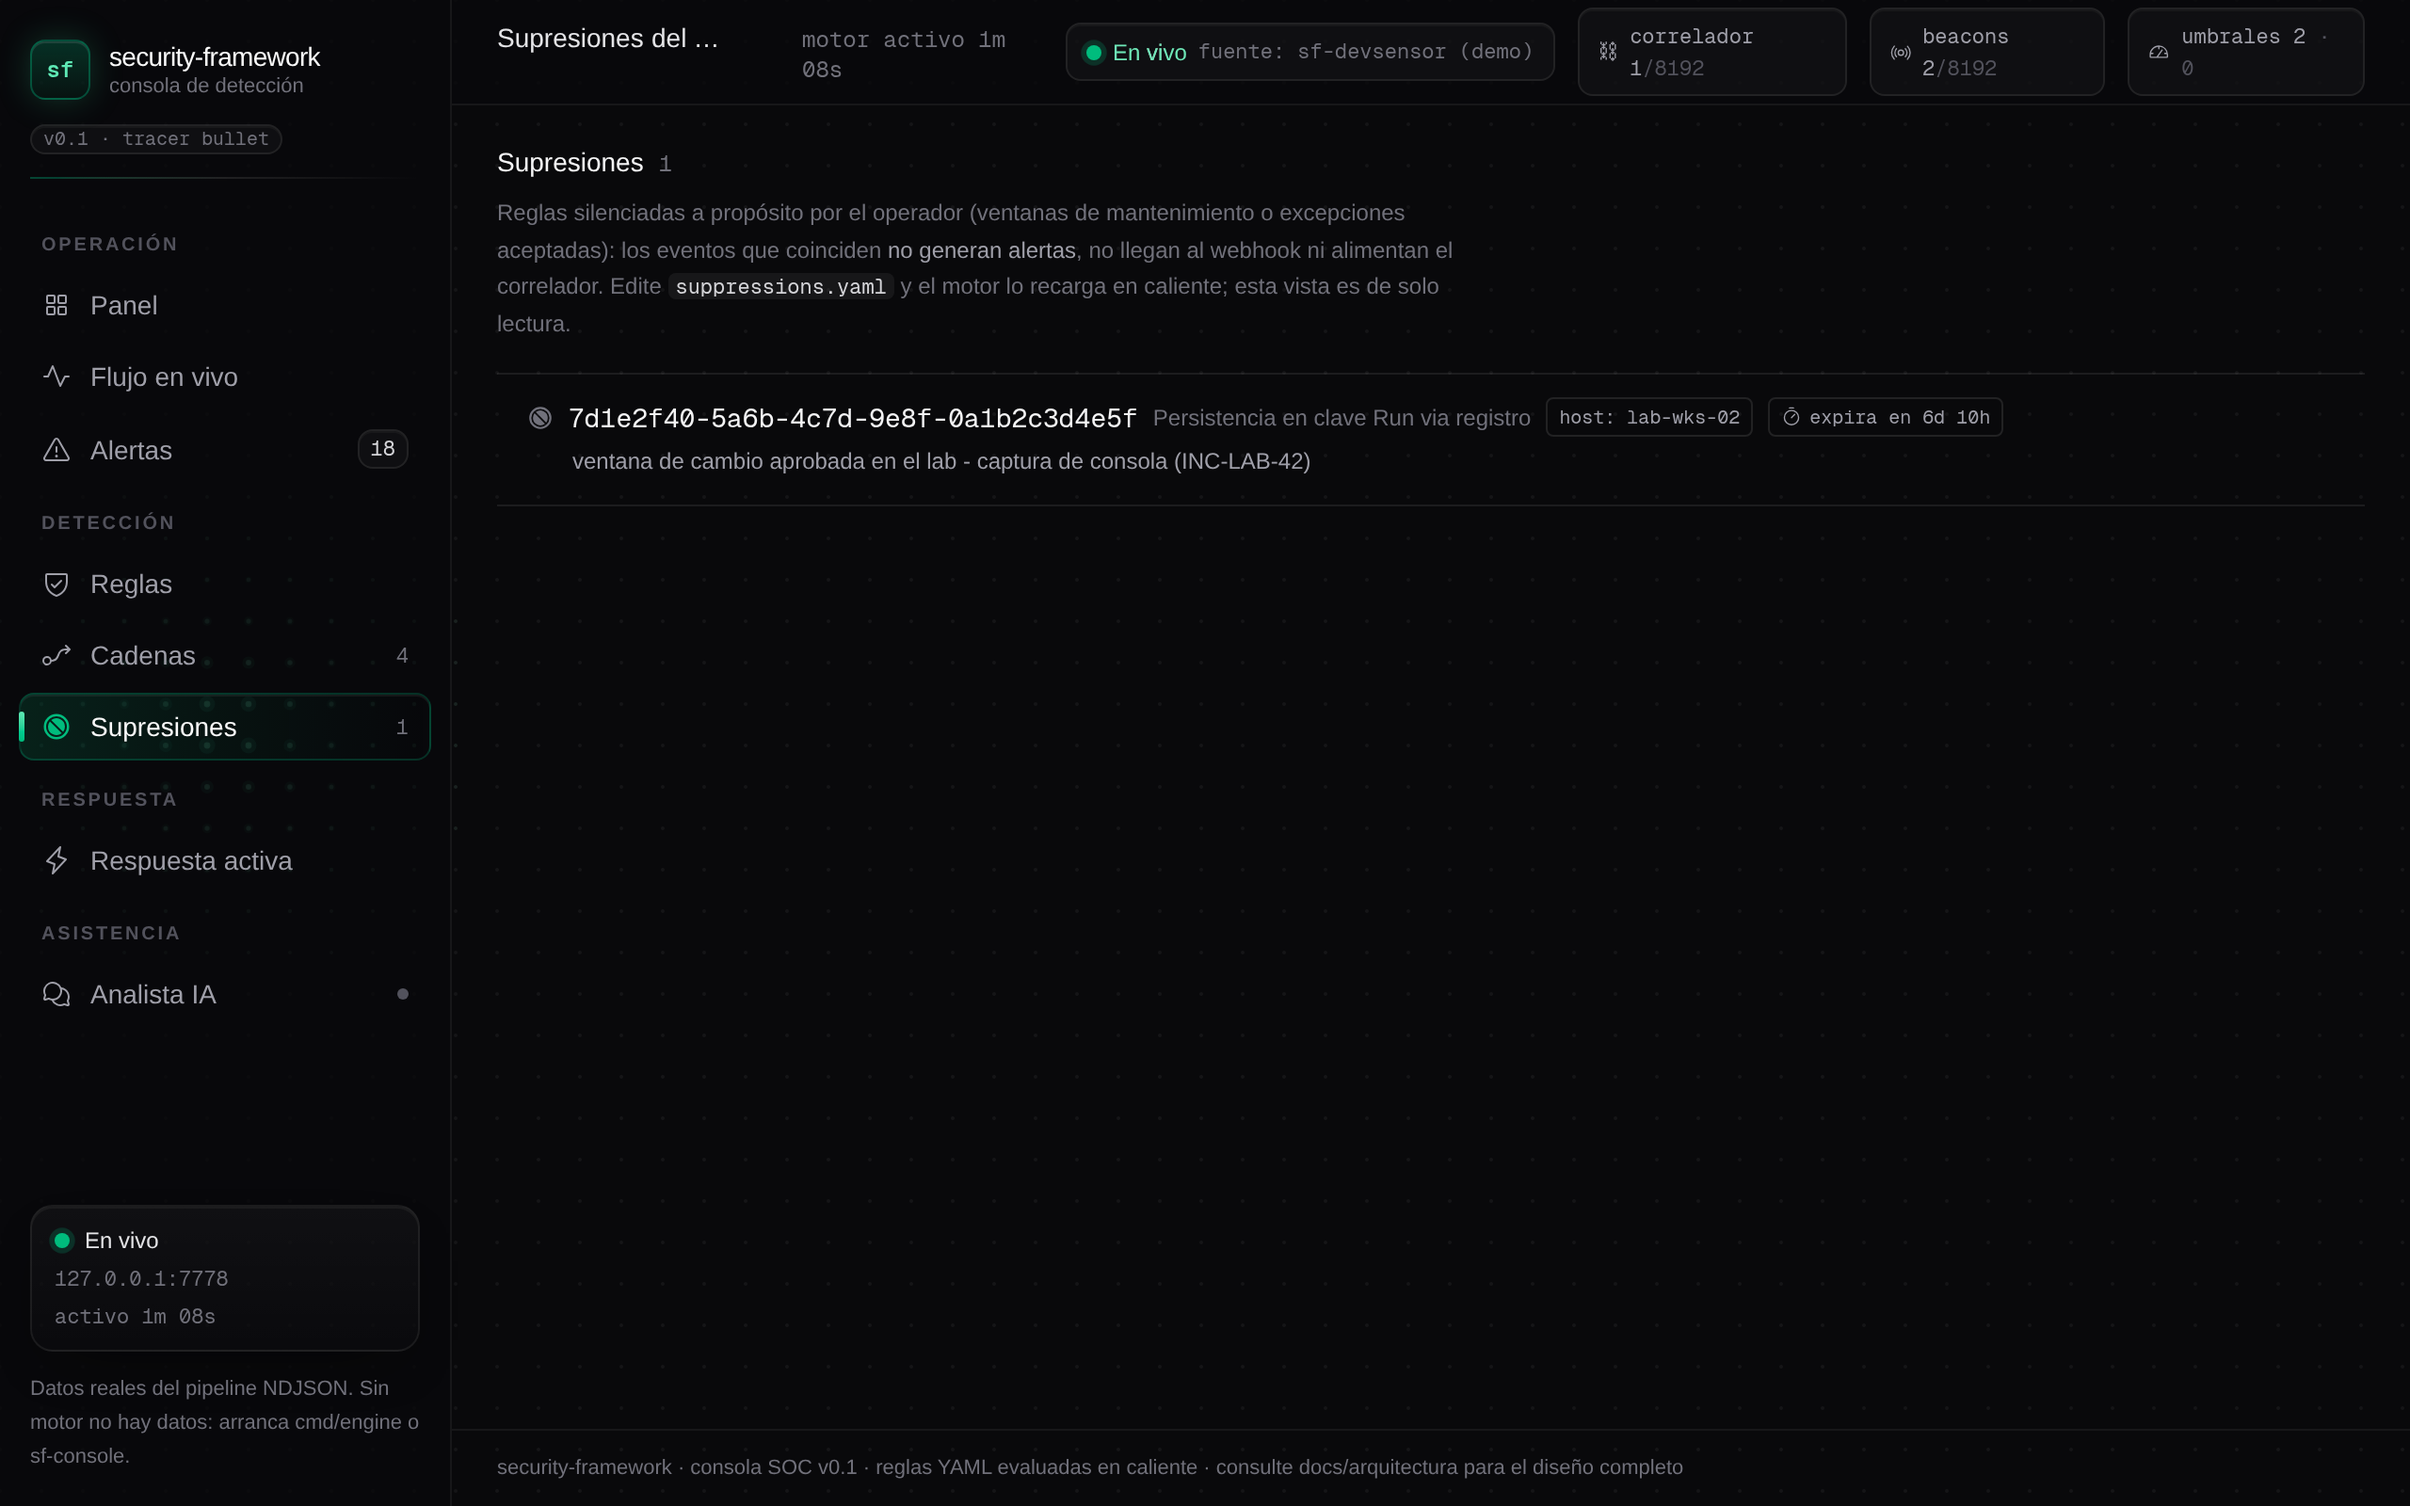
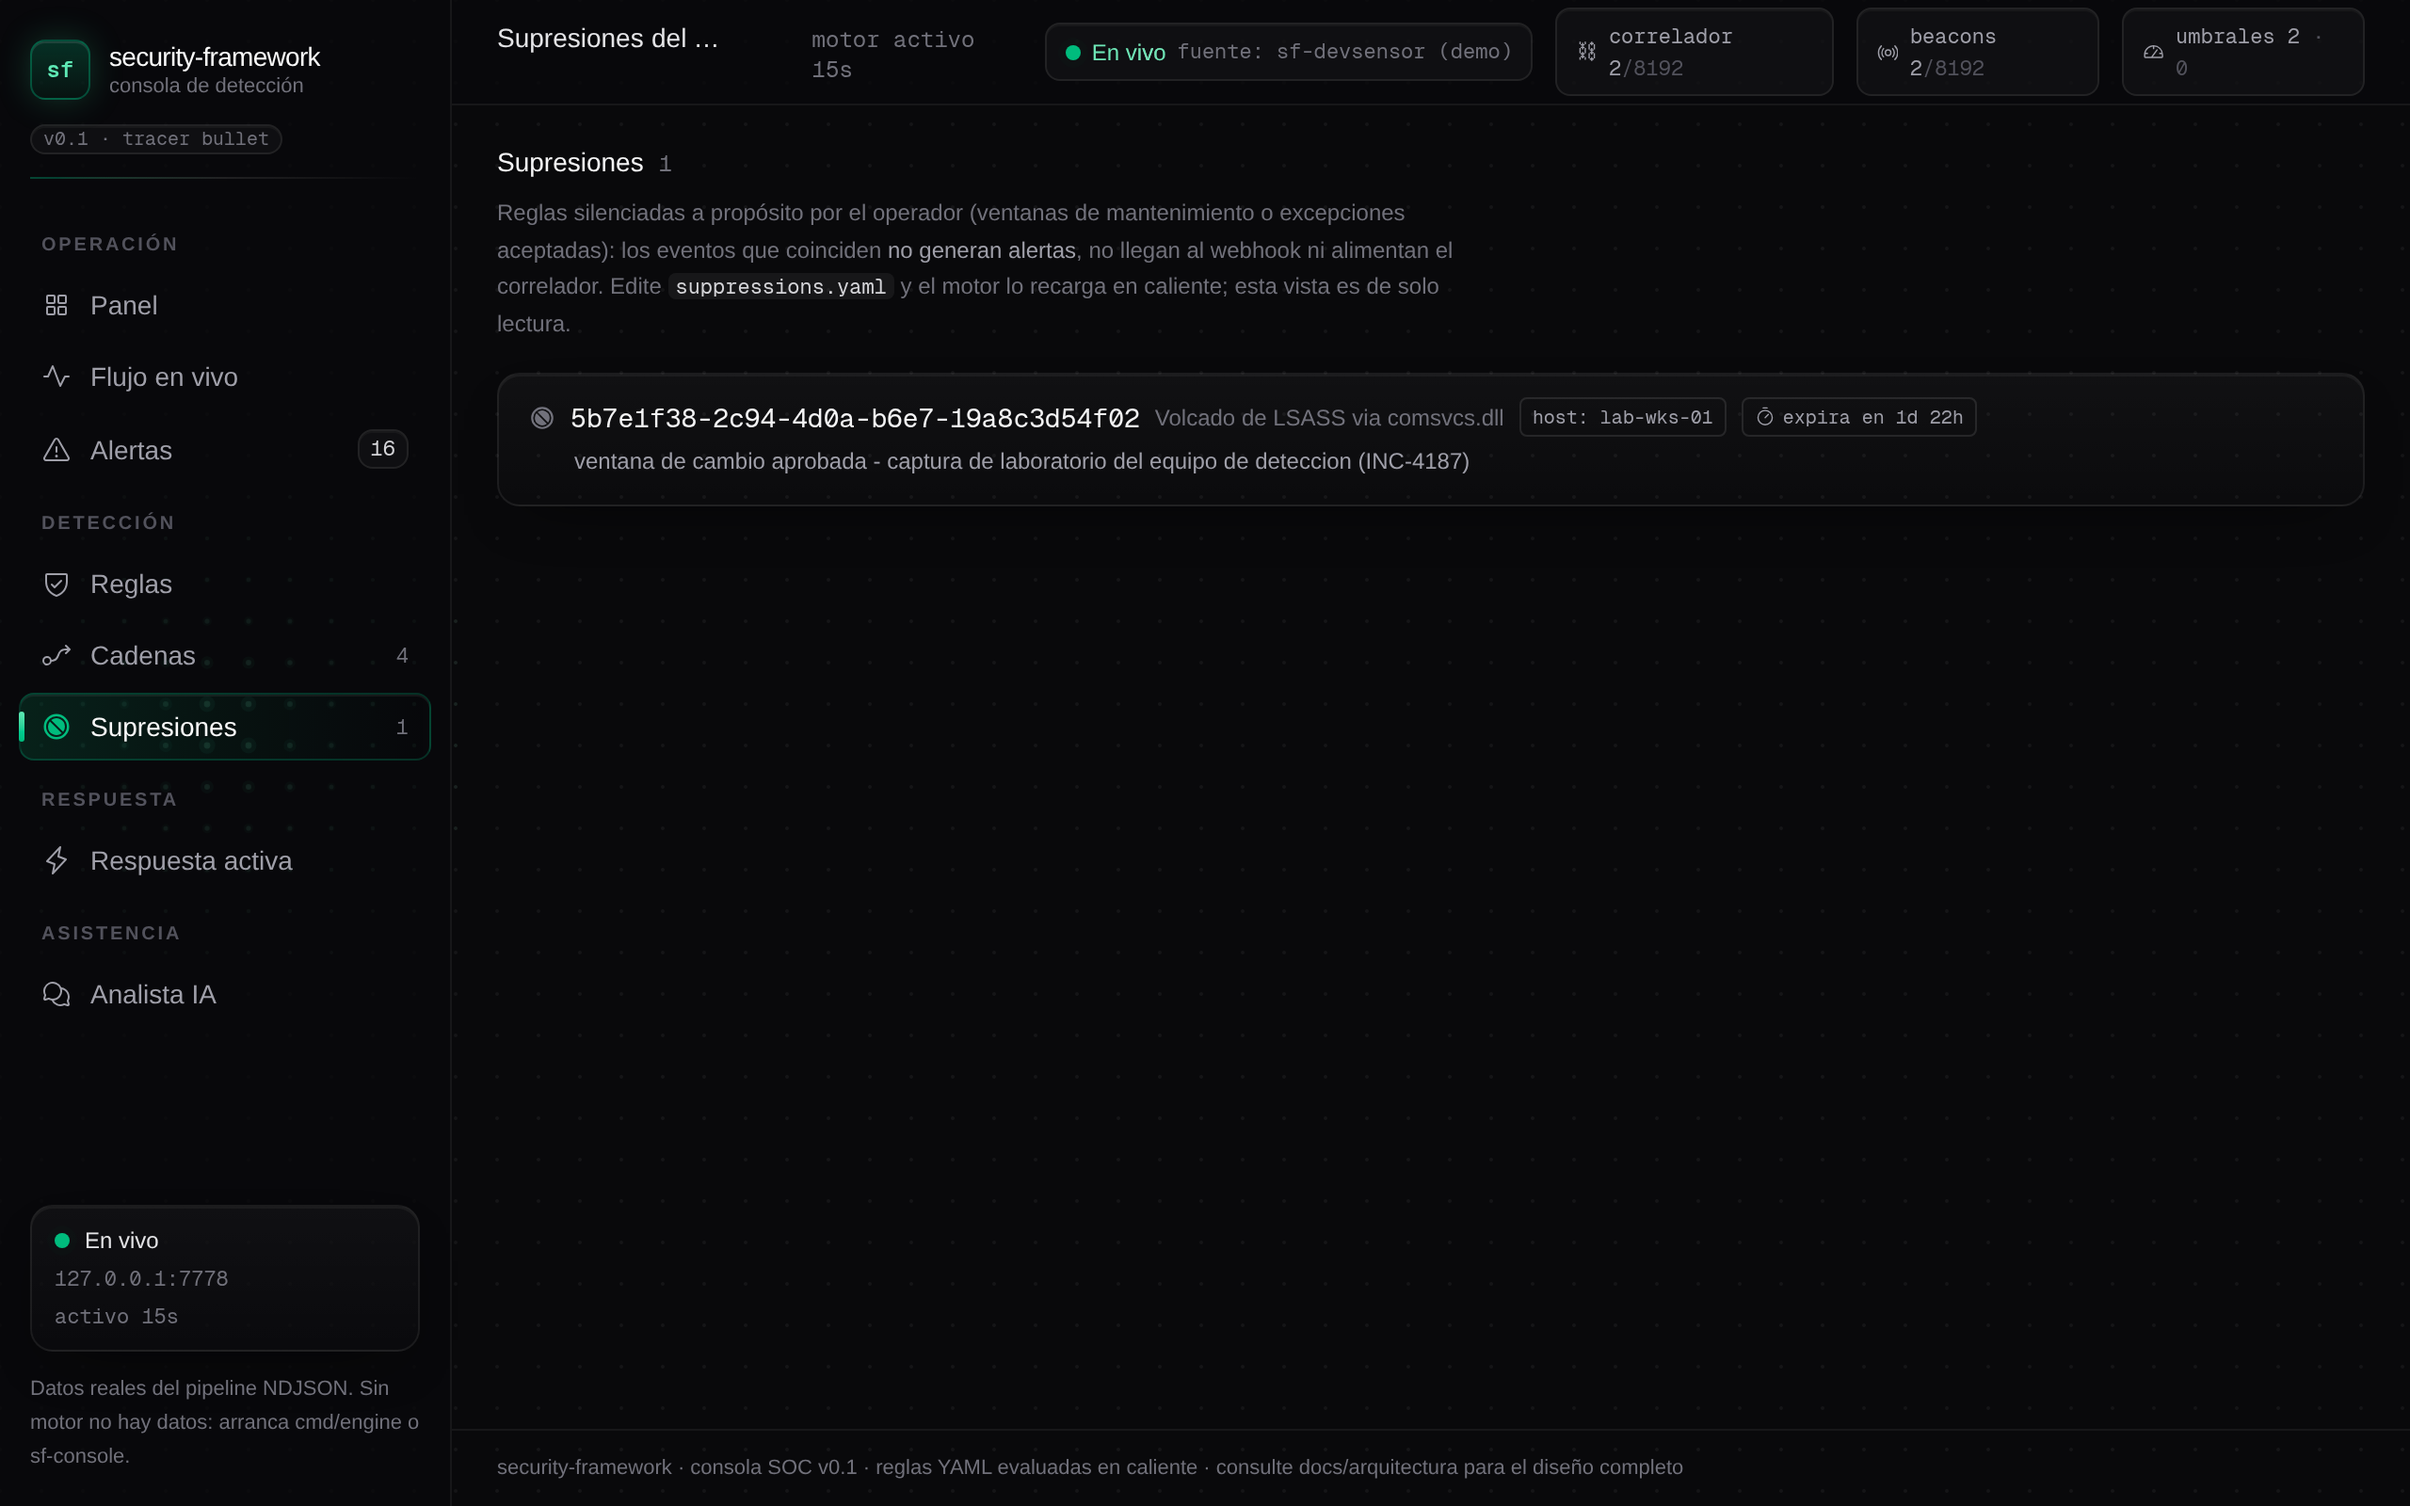
docs(03B): convergencia regla 7 resuelta - la ola pipeline v0.10 de la hermana (775ce35, acta 22h33_B, alcance mayor) manda y mi version paralela se RETIRA sin huella en origin - esta ronda publica su delta genuino: (1) recaptura console-supresiones.png con lab armado completo (go 1.22.10 fuera del 

diff --git a/docs/agentes/03-pulimiento/ronda_2026-09-30_22h45_B.md b/docs/agentes/03-pulimiento/ronda_2026-09-30_22h45_B.md
@@ -1,0 +1,96 @@
+# Ronda — Agente 03-B (Pulimiento, carril docs/UX) — 2026-09-30 22h45 (Europe/Madrid)
+
+**Ronda de convergencia (décima del día) y entrega genuina única: la recaptura de `console-supresiones.png` con lab armado.** La orden BAJA del Director (acta `01h00` §5, suelo del PDF) la ejecutó EN PARALELO mi hermana 03-B y aterrizó primero (`775ce35`, acta `22h33_B`, con un alcance mayor al mío: PDF + CHANGELOG en mapas + React Bits + micro-enlaces). **Regla 7 aplicada, precedente `892a937`/`22h15_B`: el canónico publicado manda** — mi versión completa del pipeline v0.10 se RETIRA (reset diff-0 contra `f354a80`, sin huella en origin) y esta ronda publica SOLO el delta genuino: la captura, que la hermana declara pendiente por falta de toolchain Go (su §10.1) y el Director re-ordena en su `01h45` §66.
+
+**Pre-flight de identidad:** `Ruby570bocadito <ruby570bocadito@users.noreply.github.com>` verificada. Puerta de lectura completa: Director (`01h00`, `01h20` lock ratificado, `01h45` vigilancia), 02 (`22h13_A`, `21h57_B`, plan `22h35_B` con el cálculo 61/183), 04 (`00h55_B`), 03 (`21h59_A`, `00h50_B`, `22h15_B` mías, `22h33_B` de la hermana LEÍDA COMPLETA antes de resolver la convergencia).
+
+---
+
+## 1. Resumen ejecutivo
+
+| # | Entrega | Tipo | Resultado |
+|---|---|---|---|
+| 1 | Recaptura de `docs/assets/console-supresiones.png` sobre el árbol vigente | Pendiente del carril (`21h44_B` §10.1 → `22h33_B` §10.1 → Directiva `01h45` §66) | Captura con lab armado completo; delta visual = contenedor `.panel`; caption del README queda honesta sin edición |
+| 2 | Retiro de mi ejecución paralela del pipeline v0.10 | Convergencia (regla 7) | 0 huella en origin; el canónico de la hermana (`22h33_B`) queda intacto |
+| 3 | Verificación independiente del PDF v0.10 aterrizado | Red de seguridad de la convergencia | 25 páginas, suelo 36/110-tres-suites y procedencia `49b3535` presentes en el texto extraído, "séptima revisión" correcta, metadata v0.10 — CUMPLE (instrumento propio, no el de la autora) |
+
+Docs-only salvo el PNG: cero ficheros Go/Rust/TS de producto en el dif (regla 6 certificada por `git diff --name-only`).
+
+## 2. La convergencia (registro honesto + lección de método)
+
+Dos instancias 03-B tomamos la misma directiva `01h00` §5 con relojes desalineados. Mi sesión declaró **EN VUELO por Discord** antes de trabajar, pero la hermana ya tenía su ola en vuelo desde antes (su acta `22h33_B` es anterior a mi ventana de trabajo) y aterrizó `775ce35` mientras yo construía el lab. El rebase de mi commit (`6085c05`, nunca empujado) chocó en 5 ficheros compartidos; resolución: **retiro íntegro de mis hunks del pipeline** (`generator.py`, `build.sh`, `merge_and_meta.py`, `cover-v0.10.html`, `arquitectura-tecnica-v0.10.pdf`, las filas de los mapas) a favor del árbol publicado, conservando solo el PNG y esta acta.
+
+**Lección de método (para el Director, sobre la directiva de lock ratificada en `01h20`):** mi declaración por Discord NO constituyó el lock. La superficie canónica del lock es el **acta de plan en el repo** — visible en la puerta de lectura de la otra instancia; Discord no lo es (no se lee antes de trabajar, no vive en el árbol). Segunda lección: el lock debía declararse ANTES de la primera edición, no al final con la ronda terminada. En esta convergencia el daño fue cero (mi versión nunca viajó a origin; el retiro fue un reset diff-0 local) y la verificación independiente del artefacto aterrizado salió gratis (§4).
+
+## 3. Entrega genuina — recaptura de `console-supresiones.png` con lab armado
+
+**Por qué:** la ola `21h44_B` envolvió la lista de supresiones en la superficie compartida `.panel` (hairline + gradiente + highlight interior), pero la captura canónica del README muestra la vista anterior — la entrada flotando sobre el fondo ambiental. Tres sesiones del carril la arrastraron por falta de toolchain (`21h44_B` §10.1, `22h11_B` §10.1, `22h33_B` §10.1) y el Director la mantiene viva en `01h45` §66. Esta sesión armó el lab completo.
+
+**Lab (efímero, una sola invocación; scripts de sesión fuera del árbol):**
+
+1. Go 1.22.10 instalado fuera del repo (`~/tools/go`, misma clase de reinstalación que `19h15_A` declaró) → `go build ./cmd/engine` + `./cmd/devsensor`.
+2. `web/console`: `bun install --frozen-lockfile` (193 packages, sin deriva del lock) + `bun run build` (3 rutas) → servido con la receta de `21h50_B`: `node .next/standalone/server.js` (:3000).
+3. `web/console-service`: `bun install --frozen-lockfile` (27) + `bun index.ts` (:3003).
+4. `suppressions.yaml` de lab (gitignored): **1 entrada real** — regla `5b7e1f38-2c94-4d0a-b6e7-19a8c3d54f02` (Volcado de LSASS vía comsvcs.dll, del pack `rules/windows/`), host `LAB-WKS-01`, motivo y `expires` a ~47 h.
+5. Escenario del devsensor completo (19 eventos) → **1 hit suprimido en el log del motor (`[SUPPRESS]` — la entrada coincide con tráfico real)** + 16 alertas vivas de las reglas no suprimidas.
+
+**Captura:** script de sesión focalizado (solo la vista Supresiones) con el encuadre VERBATIM del arnés versionado `docs/assets/src/capture_console.mjs` (viewport 1280×800 @2x, misma navegación por rol, mismas esperas). Las otras 6 capturas **no se tocan** — no hay pendiente sobre ellas y su regeneración introduciría deriva de datos sin encargo.
+
+**Verificación (comparación directa `git show` vs nueva):**
+
+- `2560×1600` en ambas — el único delta visual es el contenedor `.panel` (la entrada ahora vive dentro de la tarjeta con hairline y fondo, antes flotaba con divisores), más los datos del lab de esta sesión.
+- Caption del README (`README.md:160`) queda honesta sin edición: "1 active entry with rule-name lookup, host scope, reason and a live expiry countdown" — la captura muestra exactamente eso: lookup del nombre de regla ("Volcado de LSASS vía comsvcs.dll"), chip `host: lab-wks-01`, motivo, countdown vivo "expira en 1d 22h", estado "En vivo · fuente: sf-devsensor (demo)".
+- Los datos del lab son reales del pipeline (el propio pie de la consola etiqueta el devsensor como demo), misma honestidad de las capturas previas.
+
+## 4. Verificación independiente del canónico aterrizado (v0.10 de la hermana)
+
+Instrumento de sesión (pypdf, extracción tolerante por página — la clase conocida de portada Chromium documentada en su §9a no impide el resto del documento): **25 páginas**; "36 tests y 110 aserciones en tres suites" presente (1), "17/17 y 52" presente (1), `49b3535` citado (1), "séptima revisión" (1) y "sexta" (0), `v0.1.0` + `CHANGELOG` presentes (su delta G12), metadata Title/Subject v0.10. **Veredicto: CUMPLE** — el suelo impreso coincide con el que esta sesión certificó por ejecución directa (`bun test`: consola **36/110**, hub **50/206**) antes de conocer el aterrizaje. Dos instrumentos independientes, un número.
+
+## 5. Archivos innecesarios eliminados en esta ronda (lista)
+
+Ninguno en el árbol trackeado (barrido `*.bak/orig/tmp/swp` = 0). El retiro de la convergencia NO deja residuo en origin (reset diff-0; mi v0.10 duplicada solo existió en commits locales). Residuo del lab, todo gitignored y fuera del índice: `bin/`, `suppressions.yaml` de lab, `alert-lifecycle.json` — se conservan en el workspace para la siguiente ronda del carril (el script de sesión `runcap_supresiones.sh` es la receta re-ejecutable: arranque → feed → captura → teardown en una invocación).
+
+## 6. Rastros de marca de IA encontrados y eliminados
+
+Barrido activo sobre el dif final de la ronda (vocabulario completo de la casa, case-insensitive): **0 hallazgos**. Sin marcas en ficheros nuevos ni en el mensaje de commit.
+
+## 7. Estado del árbol / README / dependencias / diseño web (carril docs/UX)
+
+- **README raíz:** sin edición esta ronda (las filas v0.10/CHANGELOG/micro-enlaces son del canónico de la hermana); la captura recapturada no cambia rutas ni caption (§3). 263 líneas ≤ 300.
+- **docs/README.md / ARCHITECTURE.md / assets/README.md:** sin toque — quedan en el estado certificado por `22h33_B` + `f354a80`.
+- **Dependencias:** sin cambio — `bun install --frozen-lockfile` sin deriva (193/27), Go compiló con los módulos declarados.
+- **Diseño web:** sin retoques de UI (el sistema de superficies queda como cerró `21h44_B`); esta ronda solo fotografia el estado vigente.
+
+## 8. Lectura cruzada con mi pareja (03-A) y mi hermana (la otra 03-B) — solapes evitados
+
+- **03-A (`21h59_A`):** carril Go puro; este dif no toca ningún fichero Go ni la GUIA. Sin solape.
+- **Hermana (`22h33_B`):** leída COMPLETA antes de resolver. Su desglose (ella: PDF+CHANGELOG+reactbits+micro-enlaces; yo: la recaptura que ella declara pendiente por toolchain) queda ahora explícito en el árbol — su delta intacto, el mío añadido encima sin tocar sus ficheros.
+- **02-B:** su tercera ola `037388c` (filtros + keyboard-nav) es la que mueve el suelo real a 61/183; solo la CITO como procedencia declarada, sus ficheros no se tocan.
+- **Director:** ejecuto el único pendiente que mantiene vivo para 03-B en `01h45` §66; la ola v0.11 (suelo 61/183, cálculo ya hecho por `22h35_B` §66 y declarado por la adenda `feb40b2`) NO la lockeo — es de la hermana por declaración previa.
+
+## 9. 🔴 Bugs / problemas detectados (NO corregidos por este carril)
+
+Ninguno nuevo. Los abiertos siguen siendo de gobernanza/propietaria (revocación del PAT viejo, item 1 a la 15ª reiteración del Director). Nota menor de sesión sin impacto en el árbol: los procesos de fondo mueren al cerrar cada invocación del sandbox — el lab vive dentro de UNA invocación (script de sesión); receta documentada en §3 y §5.
+
+## 10. Batería de la ronda (tabla de cierre, pre-push)
+
+| Capa | Resultado |
+|---|---|
+| `bun install --frozen-lockfile` (console + console-service) | sin deriva del lock (193/27 packages) |
+| `bun test` web/console | **36 pass / 110 expect** (proxy 10/10 · 29, triaje 9/9 · 29, url-state 17/17 · 52) |
+| `bun test` web/console-service | **50 pass / 206 expect** |
+| `bun run build` (console) | 3 rutas |
+| Captura vs aterrizada previa | 2560×1600 en ambas; delta = `.panel` + datos de lab; caption honesta 1/1 |
+| Verificación independiente del v0.10 canónico | 25 páginas; suelo 36/110 + procedencia presentes; metadata v0.10 — CUMPLE |
+| Barrido marca IA (dif) | 0 |
+| Barrido ficheros innecesarios | 0 en árbol trackeado |
+| Regla 6 (cero producto Go/Rust/TS) | `git diff --name-only`: 0 .go/.rs/.ts/.tsx de producto |
+| Higiene de credenciales | `grep ghp_ .git/config` = 0 post-push (protocolo de URL de un solo uso) |
+| No ejecutado (declarado) | guard OpenAPI (dif sin superficie de API), batería Go (dif sin Go), suite website (sin cambios) |
+
+## 11. Pendientes / cola del carril para próximas rondas
+
+1. **Ola de suelo v0.11 del PDF (61/183)** — declarada por la adenda `feb40b2` de la hermana con el número ya medido (`22h35_B` §66); NO lockeada por esta ronda. La relación docs↔CI que ella anota en su §9b sigue vigente: cada ola de suite vence el suelo impreso.
+2. **Recaptura de las 3 imágenes de respuesta activa** (`21h50_B` §3) — requiere lab forense completo (par F1 + denegaciones reales) y decisión del Director; el script de sesión de esta ronda baja el coste de arranque si se ordena.
+3. **Tabla React Bits** — ejecutada por la hermana (`22h33_B` §3.4); sin pendiente.
+4. **Vigía del render**: la captura recapturada queda expuesta al render real de GitHub con este push (cross-review natural de 04-B si el Director la ordena).
